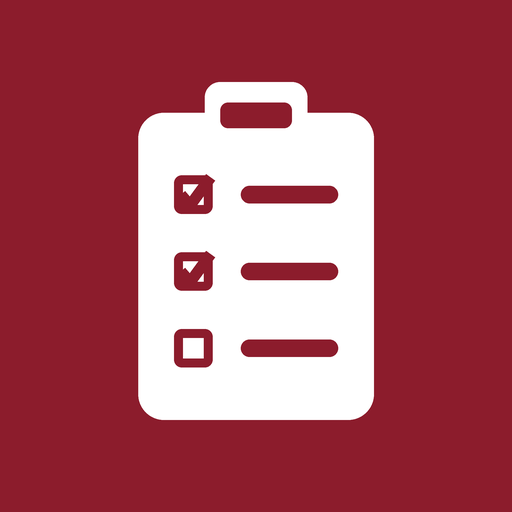
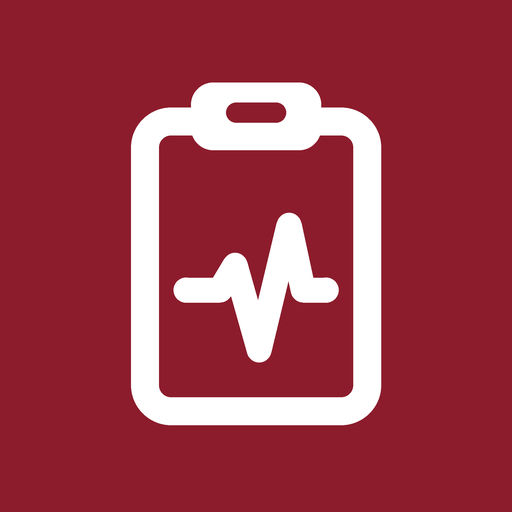
Hakkında ve paylaş sayfası (QR, sorumluluk, KVKK, kaynaklar); Nöbet başlığı ve ikonu Vizit ailesine uyarlandı
Claude-Session: https://claude.ai/code/session_01RAyagNSHqyi7gZyM96Umdu

diff --git a/hakkinda.html b/hakkinda.html
@@ -1,0 +1,148 @@
+<!doctype html>
+<html lang="tr">
+<head>
+<meta charset="utf-8">
+<meta name="viewport" content="width=device-width, initial-scale=1, viewport-fit=cover">
+<title>Vizit Hakkında</title>
+<meta name="theme-color" content="#8c1c2c">
+<link rel="manifest" href="manifest.webmanifest">
+<link rel="icon" href="icons/icon-192.png">
+<link rel="apple-touch-icon" href="icons/apple-touch-icon.png">
+<style>
+*{box-sizing:border-box}
+[hidden]{display:none!important}
+/* Layout: tek sütun klinik kart; üstte giriş alanları, altta büyük sonuç ve KDIGO G-evresi şeridi */
+:root{
+  --bg:#f3f6f8; --surface:#ffffff; --fg:#14222b; --muted:#5b6b75; --line:#d8e0e5;
+  --accent:#8c1c2c; --accent-soft:#f6e7e9;
+  --g1:#2e8b57; --g2:#7aa83a; --g3a:#d9a21b; --g3b:#e07b24; --g4:#d24b32; --g5:#9b2335;
+  --font-body:system-ui,-apple-system,"Segoe UI",sans-serif;
+  --font-num:ui-monospace,"SF Mono",Menlo,monospace;
+}
+@media (prefers-color-scheme: dark){:root:not([data-theme="light"]){
+  --bg:#0e171c; --surface:#16232a; --fg:#e4ecf0; --muted:#93a5af; --line:#2a3a43;
+  --accent:#cf5468; --accent-soft:#3a1d23; color-scheme:dark;
+}}
+:root[data-theme="dark"]{
+  --bg:#0e171c; --surface:#16232a; --fg:#e4ecf0; --muted:#93a5af; --line:#2a3a43;
+  --accent:#cf5468; --accent-soft:#3a1d23; color-scheme:dark;
+}
+body{margin:0;background:var(--bg);color:var(--fg);font-family:var(--font-body);font-size:16px;line-height:1.5;
+  padding-left:max(16px,env(safe-area-inset-left,0px));padding-right:max(16px,env(safe-area-inset-right,0px));padding-block:calc(24px + env(safe-area-inset-top,0px)) calc(40px + env(safe-area-inset-bottom,0px))}
+.wrap{max-width:520px;margin:0 auto;display:flex;flex-direction:column;gap:20px}
+.back{color:var(--accent);text-decoration:none;font-weight:600;font-size:.9rem}
+header h1{font-size:1.6rem;margin:0;letter-spacing:-.01em;text-wrap:balance}
+header p{margin:4px 0 0;color:var(--muted);font-size:.92rem}
+.card{background:var(--surface);border:1px solid var(--line);border-radius:14px;padding:20px;display:flex;flex-direction:column;gap:18px}
+.field{display:flex;flex-direction:column;gap:6px}
+label,.lbl{font-size:.78rem;font-weight:600;text-transform:uppercase;letter-spacing:.06em;color:var(--muted)}
+.row{display:flex;gap:10px;align-items:stretch}
+input[type=number]{flex:1;min-width:0;font:600 1.25rem var(--font-num);padding:12px 14px;border:1px solid var(--line);border-radius:10px;background:var(--bg);color:var(--fg)}
+input:focus-visible,button:focus-visible{outline:3px solid var(--accent);outline-offset:2px}
+.seg{display:flex;border:1px solid var(--line);border-radius:10px;overflow:hidden;background:var(--bg)}
+.seg button{flex:1;border:0;background:transparent;color:var(--fg);font:500 .95rem var(--font-body);padding:11px 14px;cursor:pointer;white-space:nowrap}
+.seg button[aria-pressed=true]{background:var(--accent);color:#fff;font-weight:600}
+.err{color:var(--g4);font-size:.85rem;min-height:1.2em;margin:0}
+.result{display:flex;flex-direction:column;gap:14px}
+.big{display:flex;align-items:baseline;gap:10px;flex-wrap:wrap}
+.big .num{font:700 3.2rem/1 var(--font-num);font-variant-numeric:tabular-nums}
+.big .unit{color:var(--muted);font-size:.9rem}
+.pill{display:inline-block;padding:4px 12px;border-radius:999px;font-weight:700;font-size:.9rem;color:#fff}
+.stage-text{margin:0;font-size:.98rem}
+.scale{display:grid;grid-template-columns:repeat(6,1fr);gap:3px;position:relative}
+.scale div{height:10px;border-radius:3px;opacity:.35}
+.scale div.on{opacity:1}
+.ticks{display:grid;grid-template-columns:repeat(6,1fr);gap:3px;font:500 .72rem var(--font-num);color:var(--muted);text-align:center}
+.note{font-size:.82rem;color:var(--muted);margin:0}
+details{font-size:.88rem;color:var(--muted)}
+details summary{cursor:pointer;font-weight:600;color:var(--fg)}
+code{font-family:var(--font-num);font-size:.82rem;background:var(--accent-soft);padding:1px 5px;border-radius:4px;word-break:break-word}
+table{border-collapse:collapse;width:100%;font-size:.86rem}
+td,th{padding:6px 4px;border-bottom:1px solid var(--line);text-align:left}
+td:first-child{font-family:var(--font-num);font-weight:700;white-space:nowrap}
+@media (prefers-reduced-motion:no-preference){.scale div{transition:opacity .2s}}
+
+.card h2{font-size:1.05rem;margin:0}
+.card p{margin:0}
+.card ul{margin:0;padding-left:20px;display:flex;flex-direction:column;gap:6px}
+.qr{align-self:center;background:#fff;border-radius:12px;padding:10px;line-height:0}
+.qr img{width:220px;height:220px;image-rendering:pixelated}
+.btns{display:flex;flex-wrap:wrap;gap:8px}
+.btn{border:0;background:var(--accent);color:#fff;font:600 .95rem var(--font-body);padding:11px 16px;border-radius:10px;cursor:pointer}
+.btn.ghost{background:var(--bg);color:var(--accent);border:1px solid var(--line)}
+.btn:focus-visible{outline:3px solid var(--accent);outline-offset:2px}
+.url{font-size:.85rem;color:var(--muted);word-break:break-all;text-align:center}
+</style>
+</head>
+<body data-ornek-yok>
+<div class="wrap">
+  <header>
+    <a class="back" href="./">← Vizit</a>
+    <h1>Hakkında ve paylaş</h1>
+    <p>Dahiliye pratiği için hesaplayıcılar · 45 araç · son güncelleme 21 Ekim 2026</p>
+  </header>
+
+  <section class="card">
+    <h2>Paylaş</h2>
+    <p>Meslektaşınız telefonunun kamerasıyla bu kodu okutarak Vizit'i açabilir.</p>
+    <div class="qr" id="qr"></div>
+    <p class="url" id="url"></p>
+    <div class="btns">
+      <button type="button" class="btn" id="paylas">Bağlantıyı gönder</button>
+      <button type="button" class="btn ghost" id="kopya">Bağlantıyı kopyala</button>
+    </div>
+    <p class="note">Telefonda uygulama gibi kullanmak için: iPhone'da Safari'de Paylaş → Ana Ekrana Ekle; Android'de Chrome menüsü → Ana ekrana ekle.</p>
+  </section>
+
+  <section class="card">
+    <h2>Önemli not</h2>
+    <p>Vizit klinik karar desteği içindir; hekimin klinik değerlendirmesinin yerini almaz. Doz ve eşikler erişkin hastalar içindir. İlaç kullanmadan önce güncel prospektüsü ve kurumunuzun protokollerini kontrol edin.</p>
+  </section>
+
+  <section class="card">
+    <h2>Veri gizliliği</h2>
+    <ul>
+      <li>Girdiğiniz değerler hiçbir sunucuya gönderilmez; hesaplamalar telefonunuzda yapılır.</li>
+      <li>Araçlar arası taşınan hasta değerleri yalnızca uygulama açıkken tutulur ve 30 dakika işlem yapılmazsa silinir.</li>
+      <li>Hasta adı veya T.C. kimlik numarası istenmez; girmeyin.</li>
+      <li>Favoriler ve yazı boyutu yalnızca bu telefonda saklanır.</li>
+      <li>İlk açılıştan sonra internetsiz de çalışır.</li>
+    </ul>
+  </section>
+
+  <section class="card">
+    <h2>Kaynaklar</h2>
+    <p>Her aracın dayandığı kılavuz ve çalışmalar kendi sayfasının altında yazılıdır. Başlıcaları:</p>
+    <ul>
+      <li>Böbrek: KDIGO (AKI 2012, anemi 2026), CKD-EPI 2021, ilaç prospektüsleri (KÜB, SmPC)</li>
+      <li>Elektrolit: ESE/ESICM/ERBP 2014 hiponatremi kılavuzu, UK Kidney Association hiperkalemi</li>
+      <li>Endokrin: TEMD Diabetes Mellitus 2026, TEMD Tiroid 2025, TEMD Osteoporoz 2025, ADA 2025–2026, ATA</li>
+      <li>Kardiyoloji ve tromboz: ESC kılavuzları, AHA/ACC, EHRA 2021 DOAK rehberi, ACCP, ASH</li>
+      <li>Karaciğer ve GİS: AASLD 2021, EASL 2018, ICA-ADQI 2024, ESGE 2021, Revize Atlanta</li>
+      <li>Enfeksiyon ve acil: ATS/IDSA, IDSA 2025, Surviving Sepsis 2021, RCP NEWS2, AHA/ASA, ACOG</li>
+      <li>Hematoloji: WHO 2024, BSG 2021, AGA 2020, NICE NG239</li>
+      <li>Diğer: CDC 2022 opioid kılavuzu</li>
+    </ul>
+    <p class="note">Tüm araçlar Ekim 2026'da iki ayrı kontrol turunda güncel kılavuzlarla karşılaştırıldı. Hata veya güncel olmayan bir bilgi görürseniz lütfen bildirin.</p>
+  </section>
+
+  <p class="note">Başlıktaki "Vizit" yazısı DM Serif Display yazı tipinden çizilmiştir (SIL Open Font License). QR kodu: qrcode-generator (MIT).</p>
+</div>
+<script src="lib/qrcode.js"></script>
+<script>
+(function(){
+  var URL='https://palando07.github.io/tibbi-araclar/';
+  document.getElementById('url').textContent=URL;
+  try{var q=qrcode(0,'M');q.addData(URL);q.make();var im=new Image();im.src=q.createDataURL(8,2);im.alt='Vizit bağlantısının QR kodu';document.getElementById('qr').appendChild(im)}catch(e){}
+  var p=document.getElementById('paylas');
+  p.onclick=function(){
+    if(navigator.share)navigator.share({title:'Vizit',text:'Dahiliye pratiği için hesaplayıcılar',url:URL}).catch(function(){});
+    else location.href='https://wa.me/?text='+encodeURIComponent('Vizit: dahiliye pratiği için hesaplayıcılar '+URL);
+  };
+  var k=document.getElementById('kopya');
+  k.onclick=function(){if(navigator.clipboard)navigator.clipboard.writeText(URL).then(function(){k.textContent='Kopyalandı ✓';setTimeout(function(){k.textContent='Bağlantıyı kopyala'},1600)})};
+})();
+</script>
+<script src="ortak.js"></script>
+</body>
+</html>

diff --git a/nobet-listesi.html b/nobet-listesi.html
@@ -35,6 +35,10 @@ body{margin:0;background:var(--bg);color:var(--fg);font-family:var(--font-body);
 .wrap{max-width:520px;margin:0 auto;display:flex;flex-direction:column;gap:20px}
 .back{color:var(--accent);text-decoration:none;font-weight:600;font-size:.9rem}
 header h1{font-size:1.6rem;margin:0;letter-spacing:-.01em;text-wrap:balance}
+.marka{display:flex;align-items:center;gap:10px;font-size:1.75rem}
+.marka .pano{width:28px;height:30px;color:var(--accent);flex:none}
+.marka .kelime{height:1.15em;width:auto;flex:none;margin-top:.04em}
+.gizli{position:absolute;width:1px;height:1px;overflow:hidden;clip:rect(0 0 0 0);white-space:nowrap}
 header p{margin:4px 0 0;color:var(--muted);font-size:.92rem}
 .card{background:var(--surface);border:1px solid var(--line);border-radius:14px;padding:20px;display:flex;flex-direction:column;gap:14px}
 .card h2{margin:0;font-size:1.15rem}
@@ -76,7 +80,7 @@ details p{margin:8px 0 0}
 <body data-ornek-yok>
 <div class="wrap">
   <header>
-    <h1>Nöbet Takip Listesi</h1>
+    <h1 class="marka"><svg class="pano" viewBox="0 0 32 34" aria-hidden="true"><rect x="4" y="5" width="24" height="27" rx="4" fill="none" stroke="currentColor" stroke-width="2.6"/><rect x="10" y="2" width="12" height="6" rx="2.5" fill="currentColor"/><polyline points="9,19 12.5,19 14,16.5 16.5,24 19.5,12.5 21,19 23,19" fill="none" stroke="currentColor" stroke-width="2.3" stroke-linecap="round" stroke-linejoin="round"/></svg><svg class="kelime" viewBox="25 -724 2617 745" aria-hidden="true"><path fill="currentColor" d="M35 0V-10L68 -20Q86 -25 94.0 -39.5Q102 -54 102 -74V-555Q91 -579 84.5 -591.0Q78 -603 70.0 -611.5Q62 -620 48 -633L31 -650V-660H208L540 -207V-584Q540 -604 533.5 -620.0Q527 -636 507 -641L474 -650V-660H617V-650L590 -641Q572 -635 568.0 -620.0Q564 -605 564 -585V3H508L126 -522V-74Q126 -54 132.0 -40.0Q138 -26 157 -20L187 -10V0Z M926 15Q850 15 794.0 -16.5Q738 -48 707.5 -106.0Q677 -164 677 -242Q677 -320 709.5 -377.0Q742 -434 798.5 -465.0Q855 -496 926 -496Q997 -496 1053.0 -465.5Q1109 -435 1141.5 -378.0Q1174 -321 1174 -242Q1174 -163 1143.5 -105.5Q1113 -48 1057.5 -16.5Q1002 15 926 15ZM926 -5Q961 -5 982.0 -25.0Q1003 -45 1012.5 -96.0Q1022 -147 1022 -240Q1022 -334 1012.5 -385.0Q1003 -436 982.0 -456.0Q961 -476 926 -476Q891 -476 869.5 -456.0Q848 -436 838.5 -385.0Q829 -334 829 -240Q829 -147 838.5 -96.0Q848 -45 869.5 -25.0Q891 -5 926 -5ZM1042 -580Q1014 -580 991.5 -598.5Q969 -617 969 -649Q969 -681 991.5 -699.5Q1014 -718 1042 -718Q1072 -718 1093.5 -699.5Q1115 -681 1115 -649Q1115 -617 1093.5 -598.5Q1072 -580 1042 -580ZM810 -580Q781 -580 759.0 -598.5Q737 -617 737 -649Q737 -681 759.0 -699.5Q781 -718 810 -718Q839 -718 861.0 -699.5Q883 -681 883 -649Q883 -617 861.0 -598.5Q839 -580 810 -580Z M1389 13 1220 0V-10L1230 -12Q1269 -21 1269 -62V-597Q1269 -618 1262.5 -629.0Q1256 -640 1236 -644L1222 -648V-658L1400 -701L1412 -692L1408 -551V-450Q1441 -473 1480.0 -484.5Q1519 -496 1559 -496Q1616 -496 1660.0 -469.5Q1704 -443 1729.5 -387.5Q1755 -332 1755 -245Q1755 -158 1726.5 -100.5Q1698 -43 1650.5 -14.0Q1603 15 1546 15Q1509 15 1471.5 5.0Q1434 -5 1405 -23ZM1496 -19Q1528 -19 1552.0 -39.0Q1576 -59 1590.0 -107.5Q1604 -156 1604 -241Q1604 -326 1591.0 -372.0Q1578 -418 1554.5 -436.0Q1531 -454 1498 -454Q1451 -454 1411 -428V-44Q1430 -32 1450.0 -25.5Q1470 -19 1496 -19Z M2050 -496Q2115 -496 2161.0 -469.5Q2207 -443 2231.5 -397.5Q2256 -352 2256 -294Q2256 -283 2255.0 -271.5Q2254 -260 2251 -251H1953Q1954 -143 1991.5 -95.5Q2029 -48 2103 -48Q2153 -48 2184.0 -64.0Q2215 -80 2242 -111L2252 -102Q2221 -47 2169.5 -16.0Q2118 15 2046 15Q1975 15 1920.0 -15.5Q1865 -46 1834.0 -103.0Q1803 -160 1803 -239Q1803 -321 1839.0 -378.5Q1875 -436 1931.5 -466.0Q1988 -496 2050 -496ZM2047 -476Q2018 -476 1997.5 -458.5Q1977 -441 1965.5 -396.5Q1954 -352 1953 -271H2124Q2134 -380 2116.0 -428.0Q2098 -476 2047 -476Z M2496 15Q2432 15 2396.5 -17.0Q2361 -49 2361 -119V-461H2292V-471L2316 -475Q2347 -482 2369.5 -495.0Q2392 -508 2414 -530L2496 -621H2506L2503 -481H2615V-461H2502V-101Q2502 -66 2517.5 -48.0Q2533 -30 2557 -30Q2578 -30 2594.0 -40.5Q2610 -51 2626 -69L2636 -59Q2616 -25 2581.0 -5.0Q2546 15 2496 15Z"/></svg><span class="gizli">Nöbet Takip Listesi</span></h1>
     <p>Hastalar ve yapılacaklar; yalnızca bu telefonda saklanır</p>
   </header>
   <section class="card" id="kur">

diff --git a/sw.js b/sw.js
@@ -1,10 +1,10 @@
 // Sayfaları telefona kaydeder, böylece internet yokken de açılır.
 // Bir sayfayı değiştirdiğinizde aşağıdaki sürüm numarasını artırın.
-const CACHE = 'tibbi-araclar-v39';
+const CACHE = 'tibbi-araclar-v40';
 const FILES = ['./', 'index.html', 'egfr.html', 'af-skor.html', 'elektrolit.html', 'kreatinin-klerensi.html', 'child-pugh.html', 'wells-pe.html',
   'meld-na.html', 'curb-65.html', 'qsofa.html', 'glasgow-blatchford.html',
   'sodyum.html', 'osmolalite.html', 'vki.html', 'qtc.html', 'glasgow-koma.html', 'ortak.js',
-  'prevent.html', 'heart-skoru.html', 'duke-kriterleri.html', 'ortalama-arter-basinci.html', 'r-faktor.html', 'fib-4.html', 'levotiroksin.html', 'stop-bang.html', 'nobet-listesi.html', 'diyabet-tedavi.html', 'insulin-dozu.html', 'bobrek-ilac-dozu.html', 'elektrolit-replasmani.html', 'ampirik-antibiyotik.html', 'kan-gazi.html', 'acil-tedavi.html', 'infuzyon-hizi.html', 'steroid-esdegeri.html', 'pankreatit.html', 'opioid-donusumu.html', 'vte-profilaksisi.html', 'antikoagulan-kesme.html', 'varfarin-inr.html', 'iv-demir.html', 'news2.html', 'tiroid-testi.html', 'siroz-asit.html', 'hipertansif-acil.html', 'akut-bobrek-hasari.html', 'anemi.html', 'hiponatremi-tani.html', 'nobet.webmanifest', 'icons/nobet-192.png', 'icons/nobet-512.png', 'icons/nobet-apple.png', 'lib/qrcode.js', 'lib/jsQR.js',
+  'prevent.html', 'heart-skoru.html', 'duke-kriterleri.html', 'ortalama-arter-basinci.html', 'r-faktor.html', 'fib-4.html', 'levotiroksin.html', 'stop-bang.html', 'nobet-listesi.html', 'diyabet-tedavi.html', 'insulin-dozu.html', 'bobrek-ilac-dozu.html', 'elektrolit-replasmani.html', 'ampirik-antibiyotik.html', 'kan-gazi.html', 'acil-tedavi.html', 'infuzyon-hizi.html', 'steroid-esdegeri.html', 'pankreatit.html', 'opioid-donusumu.html', 'vte-profilaksisi.html', 'antikoagulan-kesme.html', 'varfarin-inr.html', 'iv-demir.html', 'news2.html', 'hakkinda.html', 'tiroid-testi.html', 'siroz-asit.html', 'hipertansif-acil.html', 'akut-bobrek-hasari.html', 'anemi.html', 'hiponatremi-tani.html', 'nobet.webmanifest', 'icons/nobet-192.png', 'icons/nobet-512.png', 'icons/nobet-apple.png', 'lib/qrcode.js', 'lib/jsQR.js',
   'manifest.webmanifest',
   'icons/icon-192.png', 'icons/icon-512.png', 'icons/apple-touch-icon.png'];
 const MATCH = { ignoreSearch: true, ignoreVary: true };

diff --git a/index.html b/index.html
@@ -289,6 +289,7 @@ h2{font-size:.78rem;font-weight:700;text-transform:uppercase;letter-spacing:.07e
     </a>
   </section>
   <p class="empty" id="empty" hidden>Aramanızla eşleşen hesaplayıcı yok.</p>
+  <a class="tool" href="hakkinda.html" style="margin-top:8px"><div><strong>Hakkında ve paylaş</strong><span>Meslektaşınıza gönderin; kaynaklar ve veri gizliliği</span></div><div class="go">›</div></a>
   <p class="note">Araçlar klinik karar desteği içindir, klinik değerlendirmenin yerini tutmaz.</p>
 </div>
 <script>

diff --git a/README.md b/README.md
@@ -27,6 +27,7 @@ Dahiliye pratiği için telefona kurulabilen, internetsiz de çalışan hesaplay
 | Varfarin ve INR yönetimi | `varfarin-inr.html` |
 | IV demir dozu (Ganzoni) | `iv-demir.html` |
 | NEWS2 erken uyarı skoru | `news2.html` |
+| Hakkında ve paylaş (QR, kaynaklar, veri gizliliği) | `hakkinda.html` |
 | Ampirik antibiyotik (10 sık enfeksiyon, risk ve alerjiye göre) | `ampirik-antibiyotik.html` |
 | CURB-65 | `curb-65.html` |
 | qSOFA | `qsofa.html` |
